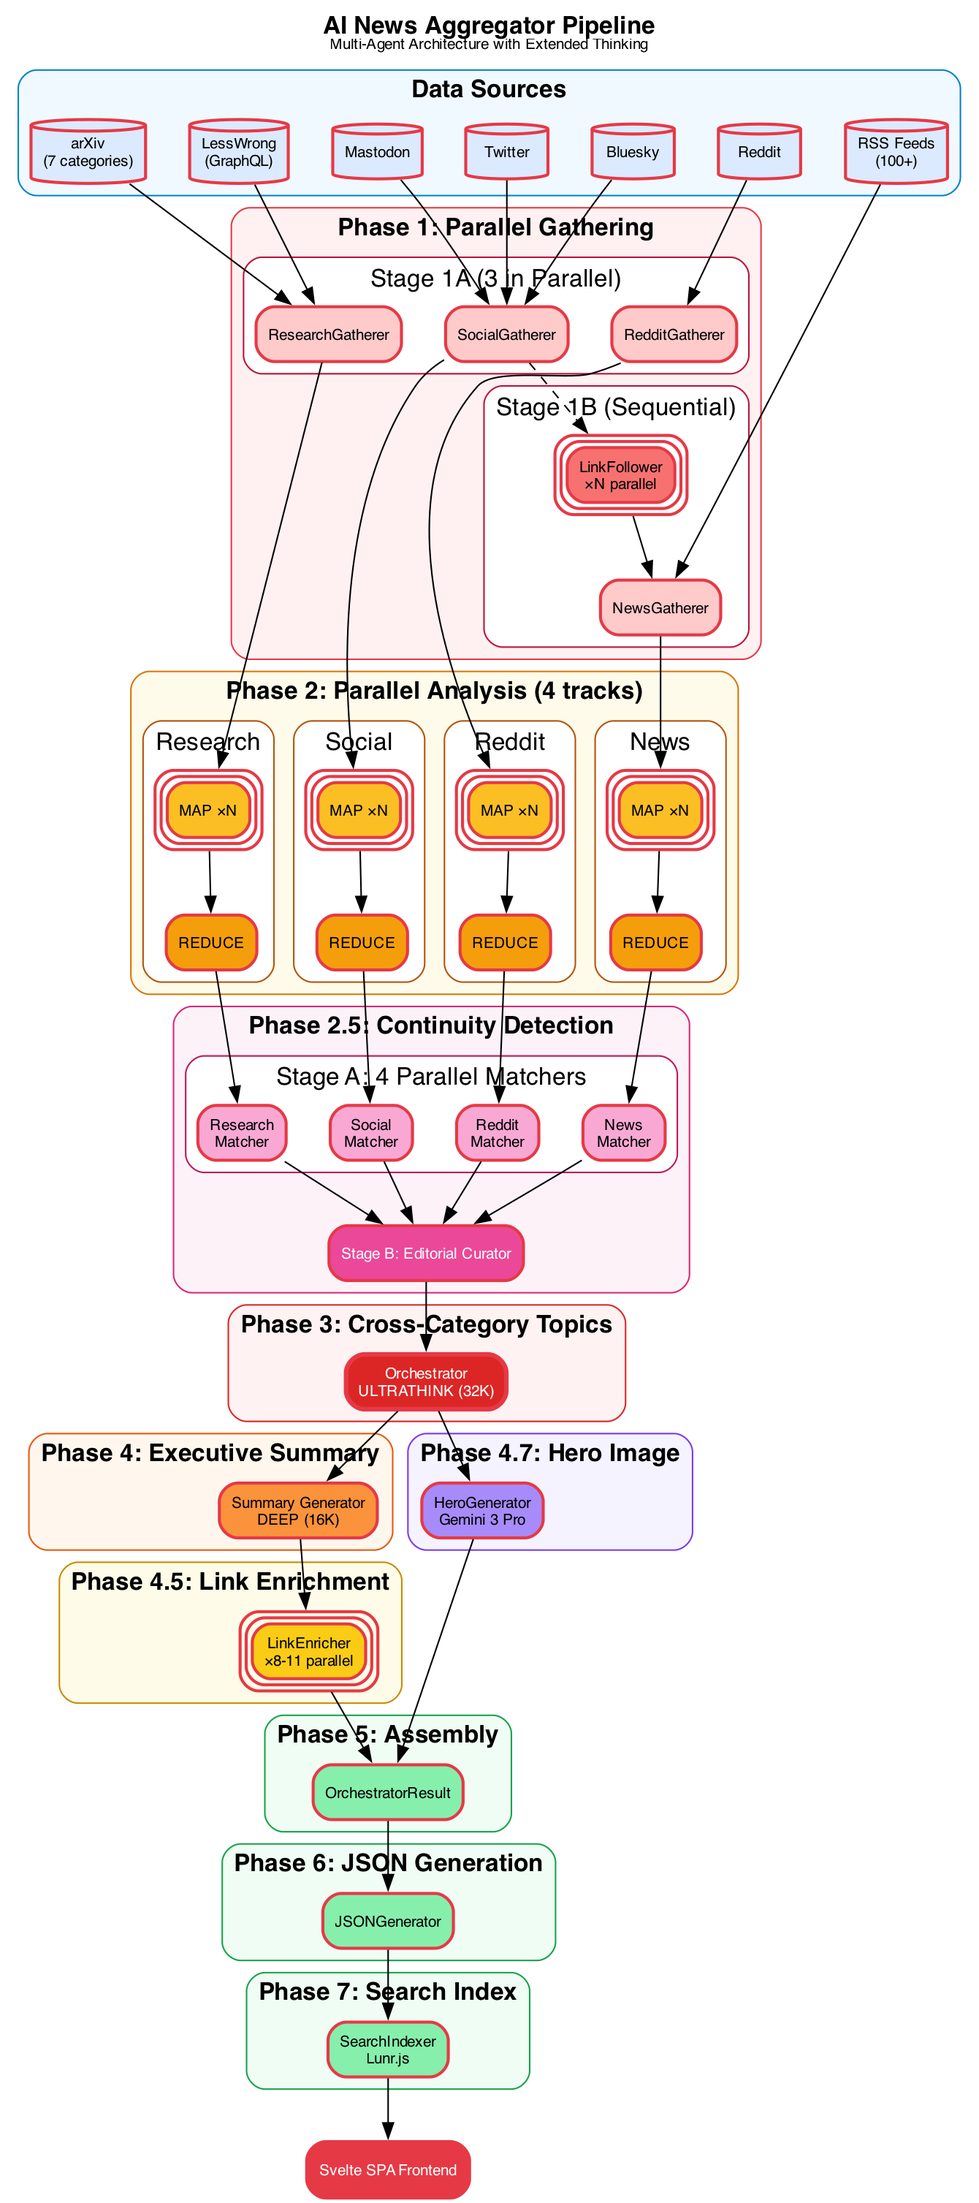
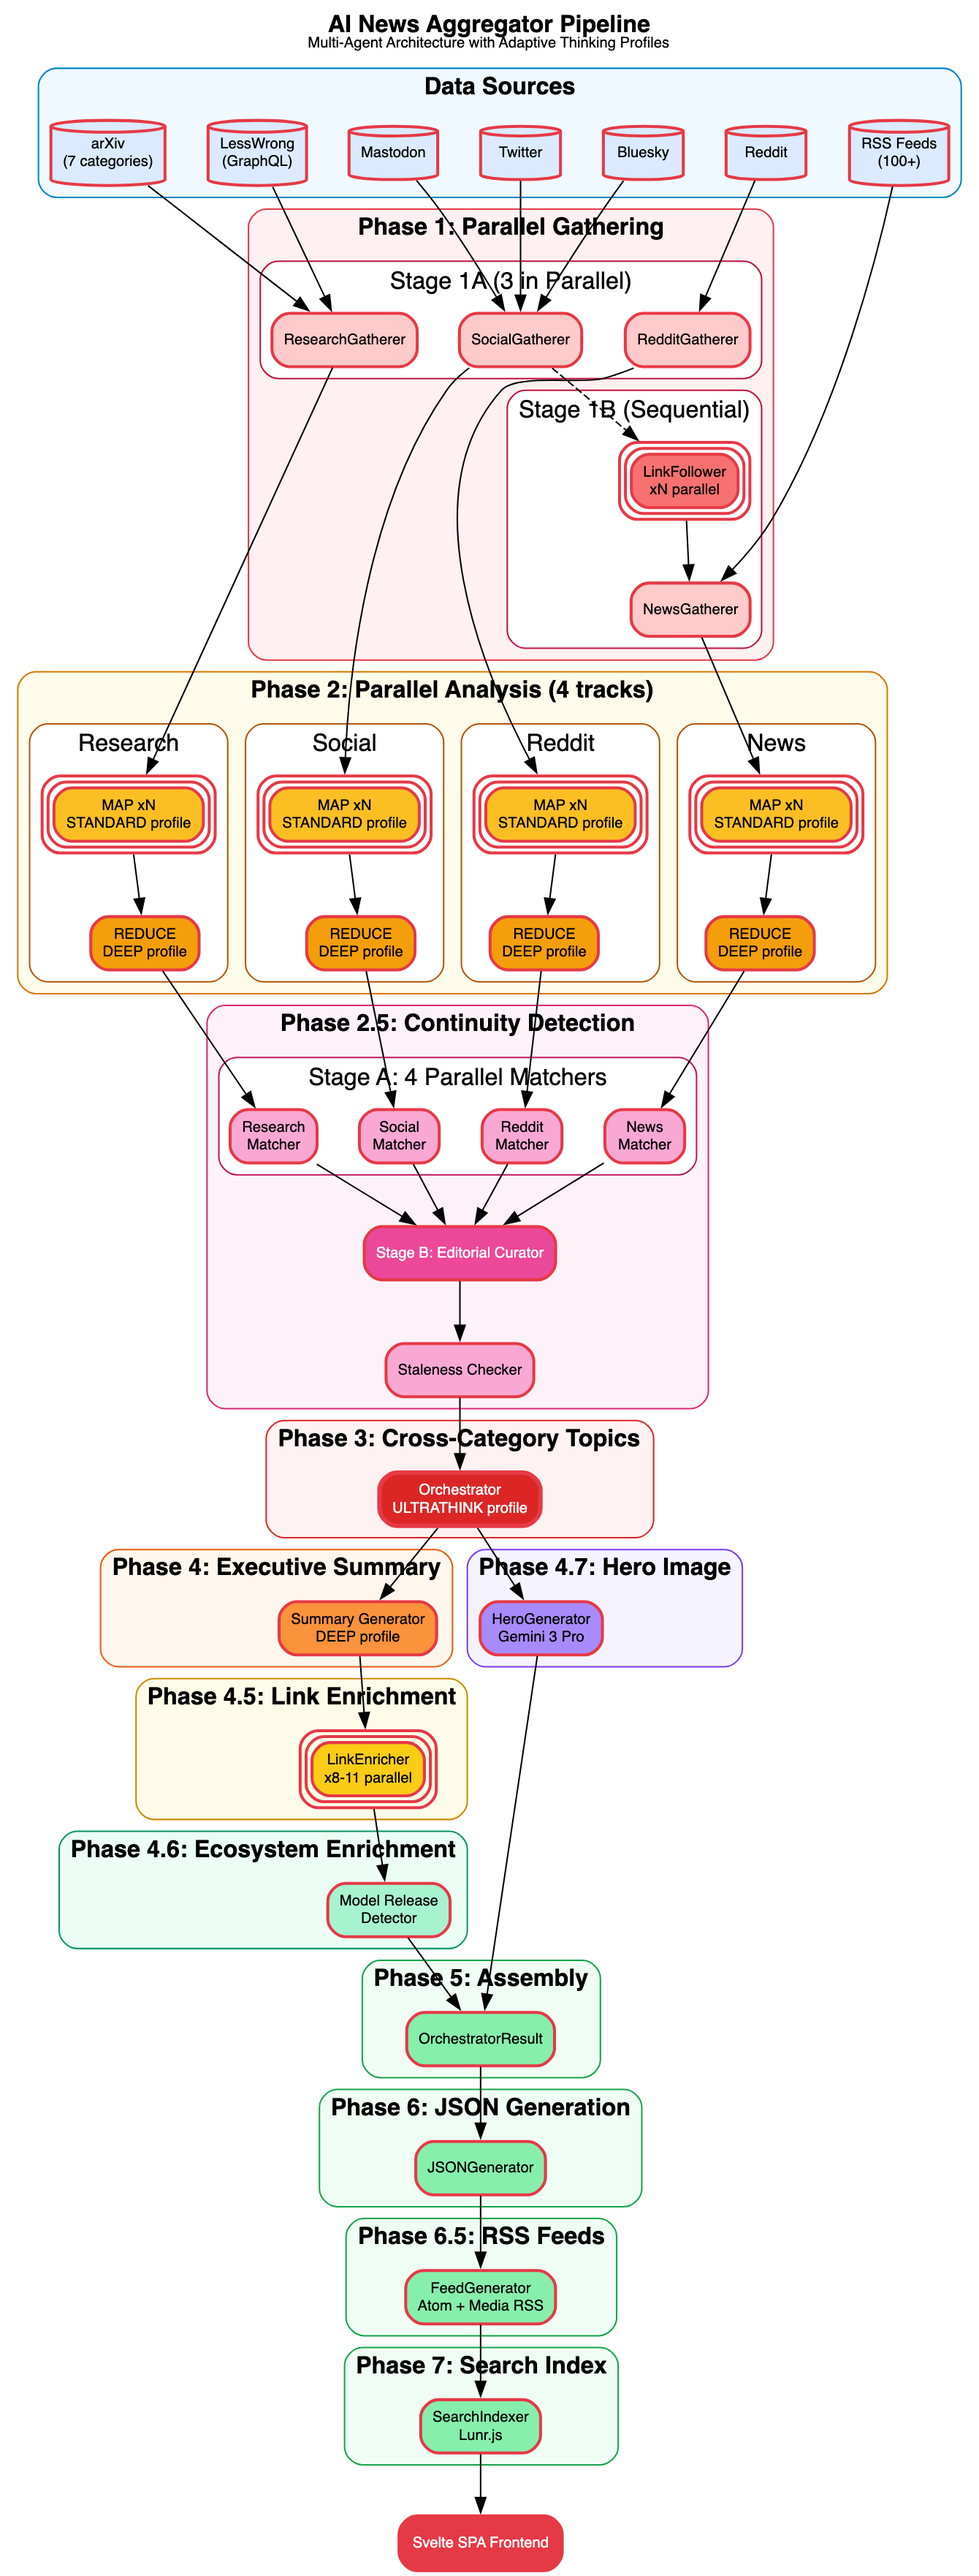
Update adaptive thinking docs and pipeline diagram

Changed region(s): [[0.0, 0.0, 0.9179, 1.0], [0.8567, 0.0312, 1.0, 0.1248]]

diff --git a/frontend/src/routes/about/+page.svelte b/frontend/src/routes/about/+page.svelte
@@ -58,7 +58,7 @@
 				</li>
 				<li>
 					<strong>Category Analysis</strong> - Four analyzers process each category using
-					extended thinking to identify key developments, assess importance, and generate summaries.
+					adaptive thinking profiles to identify key developments, assess importance, and generate summaries.
 				</li>
 				<li>
 					<strong>Cross-Category Topic Detection</strong> - The system identifies themes that
@@ -95,9 +95,9 @@
 						without human editorial review.
 					</p>
 					<p>
-						The pipeline uses <strong>extended thinking</strong> (up to 32,000 tokens of reasoning)
-						for complex analysis tasks like cross-category topic detection and executive summaries.
-						This helps the AI produce more thoughtful, well-reasoned content.
+						The pipeline uses Claude Opus 4.7 <strong>adaptive thinking</strong> for complex
+						analysis tasks like cross-category topic detection and executive summaries. On Opus 4.7,
+						this is guided by effort settings rather than fixed manual token budgets.
 					</p>
 					<p>
 						<strong>While we strive for accuracy, AI can and does make errors.</strong> These may include:

diff --git a/agents/llm_client.py b/agents/llm_client.py
@@ -1,9 +1,9 @@
 """
-Anthropic Client with Extended Thinking Support
+Anthropic Client with Adaptive/Manual Thinking Support
 
 This module provides a wrapper around the Anthropic SDK that:
 1. Uses Bearer token authentication (custom httpx transport)
-2. Supports extended thinking with configurable budget levels
+2. Supports Opus 4.7 adaptive thinking and legacy manual thinking budgets
 3. Returns structured responses including thinking blocks
 4. Automatically tracks token usage and costs
 """
@@ -30,7 +30,11 @@ logger = logging.getLogger(__name__)
 
 
 class ThinkingLevel(IntEnum):
-    """Budget levels for extended thinking."""
+    """Internal thinking profiles.
+
+    On Opus 4.7+, these legacy budget values are mapped to adaptive effort
+    levels. On older Claude models, they remain manual thinking budgets.
+    """
     QUICK = 4096       # Simple tasks (summarization)
     STANDARD = 8192    # Normal analysis
     DEEP = 16000       # Complex ranking
@@ -51,7 +55,7 @@ BUDGET_TO_EFFORT = {
 def _uses_adaptive_thinking(model: str) -> bool:
     """True if model requires adaptive thinking (Opus 4.7 and later).
 
-    Opus 4.7 removed manual extended thinking (`type: enabled` + budget_tokens)
+    Opus 4.7 removed manual thinking (`type: enabled` + budget_tokens)
     and sampling parameters. Opus 4.6 and earlier still accept manual thinking,
     so we keep the legacy path for them. Regex is permissive to handle the
     alias space: claude-opus-4-7, claude-4.7-opus, claude-opus-4-7-20260416,
@@ -102,7 +106,7 @@ class ApiKeyAuth(httpx.Auth):
 
 class AnthropicClient:
     """
-    Native Anthropic client with mode-based auth and extended thinking support.
+    Native Anthropic client with mode-based auth and adaptive/manual thinking support.
 
     This client wraps the Anthropic SDK to work with either:
     - Direct Anthropic API (x-api-key header authentication)
@@ -194,7 +198,7 @@ class AnthropicClient:
         temperature: float = 1.0
     ) -> LLMResponse:
         """
-        Make a standard API call without extended thinking.
+        Make a standard API call without thinking enabled.
 
         Args:
             messages: List of message dicts with 'role' and 'content'.
@@ -246,7 +250,7 @@ class AnthropicClient:
         temperature: float = 1.0
     ) -> LLMResponse:
         """
-        Make an API call with extended thinking enabled.
+        Make an API call with adaptive or manual thinking enabled.
 
         Args:
             messages: List of message dicts with 'role' and 'content'.
@@ -351,7 +355,7 @@ class AnthropicClient:
                 )
             else:
                 error_msg += (
-                    f"Check that the model '{self.model}' supports extended thinking "
+                    f"Check that the model '{self.model}' supports manual thinking "
                     f"and that the API endpoint is responding correctly."
                 )
             raise RuntimeError(error_msg)
@@ -596,7 +600,7 @@ class AsyncAnthropicClient:
                 )
             else:
                 error_msg += (
-                    f"Check that the model '{self.model}' supports extended thinking "
+                    f"Check that the model '{self.model}' supports manual thinking "
                     f"and that the API endpoint is responding correctly."
                 )
             raise RuntimeError(error_msg)

diff --git a/agents/config/migration.py b/agents/config/migration.py
@@ -120,12 +120,12 @@ llm:
   # anthropic (default):
   #   - Direct Anthropic API access
   #   - Uses x-api-key header authentication
-  #   - Full extended thinking support (QUICK/STANDARD/DEEP/ULTRATHINK)
+  #   - Adaptive thinking support (QUICK/STANDARD/DEEP/ULTRATHINK profiles)
   #
   # openai-compatible:
   #   - For LiteLLM, AWS Bedrock proxies, or other OpenAI-compatible endpoints
   #   - Uses Bearer token authentication
-  #   - Extended thinking will log warnings (proxy may not support it)
+  #   - Thinking support depends on proxy passthrough support
   #
   mode: "{llm_mode}"
 

diff --git a/run_pipeline.py b/run_pipeline.py
@@ -4,7 +4,7 @@ AI News Aggregation Pipeline - Multi-Agent Architecture
 
 Main entry point that orchestrates the multi-agent pipeline:
 1. Parallel Gathering (4 gatherers: news, papers, social, reddit)
-2. Parallel Analysis (4 analyzers with extended thinking)
+2. Parallel Analysis (4 analyzers with adaptive/manual thinking profiles)
 3. Cross-Category Topic Detection (ULTRATHINK)
 4. Executive Summary Generation
 5. Deduplication & QC

diff --git a/README.md b/README.md
@@ -10,7 +10,7 @@
 [![Python](https://img.shields.io/badge/Python-3.10+-green.svg)](https://www.python.org/)
 [![Docker](https://img.shields.io/badge/Docker-Ready-blue.svg)](https://www.docker.com/)
 
-Daily AI/ML news briefings curated by specialized agents with extended thinking. The publishing repository runs the hosted pipeline every morning at 3 AM ET.
+Daily AI/ML news briefings curated by specialized agents using adaptive thinking profiles. The publishing repository runs the hosted pipeline every morning at 3 AM ET.
 
 ---
 
@@ -19,7 +19,7 @@ Daily AI/ML news briefings curated by specialized agents with extended thinking.
 | Section | Description |
 |---------|-------------|
 | [What It Does](#what-it-does) | Key stats and capabilities |
-| [How It Works](#how-it-works) | Pipeline phases, thinking levels, architecture |
+| [How It Works](#how-it-works) | Pipeline phases, reasoning profiles, architecture |
 | [Quick Start](#quick-start) | Docker and local setup |
 | [Configuration](#configuration) | Provider modes, prompts, data sources |
 | [Daily Automation](#daily-automation) | GitHub Actions publication workflow |
@@ -34,13 +34,13 @@ Daily AI/ML news briefings curated by specialized agents with extended thinking.
 
 ## What It Does
 
-A Python-based pipeline that collects AI/ML news from multiple sources, analyzes them using specialized agents with Claude's extended thinking, and serves a modern Svelte SPA frontend.
+A Python-based pipeline that collects AI/ML news from multiple sources, analyzes them using specialized agents with Claude's adaptive thinking, and serves a modern Svelte SPA frontend.
 
 **Key Stats:**
 - **100+ RSS feeds** from AI news sites, blogs, and research organizations
 - **7 arXiv categories** (cs.AI, cs.LG, cs.CL, cs.CV, cs.NE, cs.RO, stat.ML)
 - **6 social platforms** (Twitter, Bluesky, Mastodon, Reddit, LessWrong, research blogs)
-- **~80-85K thinking tokens** per daily run
+- **Adaptive reasoning profiles** for lightweight triage through cross-category synthesis
 - **Daily hero image** generated with AATF skunk mascot
 
 ---
@@ -51,27 +51,29 @@ A Python-based pipeline that collects AI/ML news from multiple sources, analyzes
 
 ### The Multi-Phase Pipeline
 
-| Phase | Description | Thinking Level |
+| Phase | Description | Reasoning Profile |
 |-------|-------------|----------------|
 | **0. Ecosystem Context** | Load AI model release dates for LLM grounding | - |
 | **1. Parallel Gathering** | 4 gatherers collect from RSS, arXiv, Twitter, Reddit, Bluesky, Mastodon | - |
-| **2. Parallel Analysis** | MAP-REDUCE pattern: batch items (75 each), analyze, then synthesize | STANDARD (8K) → DEEP (16K) |
+| **2. Parallel Analysis** | MAP-REDUCE pattern: batch items (75 each), analyze, then synthesize | STANDARD -> DEEP |
 | **2.5. Continuity Detection** | Track developing stories, detect rehashes, link related coverage | - |
-| **3. Cross-Category Topics** | Identify 3-6 themes spanning all categories | ULTRATHINK (32K) |
-| **4. Executive Summary** | Generate daily briefing (500-800 words) | DEEP (16K) |
-| **4.5. Link Enrichment** | Inject internal links to referenced items | STANDARD (8K) |
-| **4.6. Ecosystem Enrichment** | Auto-detect new model releases from news | STANDARD (8K) |
+| **3. Cross-Category Topics** | Identify 3-6 themes spanning all categories | ULTRATHINK |
+| **4. Executive Summary** | Generate daily briefing (500-800 words) | DEEP |
+| **4.5. Link Enrichment** | Inject internal links to referenced items | STANDARD |
+| **4.6. Ecosystem Enrichment** | Auto-detect new model releases from news | STANDARD |
 | **4.7. Hero Image** | Generate branded banner with Gemini 3 Pro | - |
 | **5-7. Output** | JSON data generation + RSS feeds + Lunr.js search index | - |
 
-### Extended Thinking Levels
+### Adaptive Thinking Profiles
 
-| Level | Budget | Use Case |
-|-------|--------|----------|
-| QUICK | 4,096 tokens | Link relevance decisions |
-| STANDARD | 8,192 tokens | Batch analysis, link enrichment |
-| DEEP | 16,000 tokens | Category ranking, executive summary |
-| ULTRATHINK | 32,000 tokens | Cross-category topic detection |
+For Claude Opus 4.7, these are profiles rather than fixed token budgets. The client sends `thinking: { type: "adaptive", display: "summarized" }` and maps each profile to `output_config.effort`. Manual `budget_tokens` is only used for older Claude models that still support it.
+
+| Profile | Opus 4.7 Effort | Legacy Manual Budget | Use Case |
+|---------|-----------------|----------------------|----------|
+| QUICK | `high` | 4,096 tokens | Link relevance decisions, item summarization |
+| STANDARD | `xhigh` | 8,192 tokens | Batch analysis, link enrichment |
+| DEEP | `max` | 16,000 tokens | Category ranking, executive summary |
+| ULTRATHINK | `max` | 32,000 tokens | Cross-category topic detection |
 
 ### Agent Architecture
 
@@ -270,10 +272,10 @@ cp config/providers.yaml.example config/providers.yaml
 
 Supports two modes:
 
-| Mode | Description | Auth | Extended Thinking |
-|------|-------------|------|-------------------|
-| `anthropic` (default) | Direct Anthropic API | x-api-key header | Full support |
-| `openai-compatible` | LiteLLM, vLLM, or other proxies | Bearer token | May not be supported |
+| Mode | Description | Auth | Thinking Support |
+|------|-------------|------|------------------|
+| `anthropic` (default) | Direct Anthropic API | x-api-key header | Adaptive thinking on Opus 4.7 |
+| `openai-compatible` | LiteLLM, vLLM, or other proxies | Bearer token | Depends on proxy passthrough support |
 
 **Direct Anthropic API:**
 
@@ -415,9 +417,10 @@ Automatically identifies when today's stories continue from previous coverage:
 - **Smart ranking**: Items flagged as `rehash` can be demoted from top stories
 - **2-day lookback**: Compares against items from the past 2 days
 
-### Extended Thinking
-- Configurable thinking budgets from 4K to 32K tokens
-- ULTRATHINK mode for complex cross-category analysis
+### Adaptive Thinking Profiles
+- Claude Opus 4.7 uses adaptive thinking plus effort settings, not fixed manual `budget_tokens`
+- QUICK/STANDARD/DEEP/ULTRATHINK remain as internal profile names for callers, logs, and older Claude models
+- ULTRATHINK profile for complex cross-category analysis
 - **Cost tracking**: Per-phase breakdown with input/output/cache token tracking, logged at end of each run
 
 ### Ecosystem Grounding
@@ -475,7 +478,7 @@ Multiple Atom 1.0 feeds for different use cases:
 ```
 ai-news-aggregator/
 ├── agents/
-│   ├── llm_client.py          # Anthropic client with extended thinking
+│   ├── llm_client.py          # Anthropic client with adaptive/manual thinking profiles
 │   ├── base.py                # BaseGatherer, BaseAnalyzer classes
 │   ├── orchestrator.py        # Main coordinator
 │   ├── ecosystem_context.py   # AI model release dates for LLM grounding

diff --git a/AGENTS.md b/AGENTS.md
@@ -4,7 +4,7 @@ This file provides guidance to Codex (Codex.ai/code) when working with code in t
 
 ## Project Overview
 
-AI News Aggregator - A Python-based multi-agent pipeline that collects AI/ML news from multiple sources (RSS feeds, arXiv API, Twitter, Reddit, Bluesky, Mastodon), analyzes them using Codex Opus 4.7 with adaptive thinking, and serves a modern Svelte SPA frontend with AATF branding.
+AI News Aggregator - A Python-based multi-agent pipeline that collects AI/ML news from multiple sources (RSS feeds, arXiv API, Twitter, Reddit, Bluesky, Mastodon), analyzes them using Claude Opus 4.7 with adaptive thinking, and serves a modern Svelte SPA frontend with AATF branding.
 
 **Testing:** The user always runs tests themselves. Do not run the pipeline or tests unless explicitly asked.
 
@@ -116,7 +116,7 @@ Phase 7: Search Index Update (Lunr.js compatible)
 ```
 agents/
 ├── __init__.py
-├── llm_client.py              # Anthropic client with extended thinking
+├── llm_client.py              # Anthropic client with adaptive/manual thinking profiles
 ├── base.py                    # Base classes (BaseGatherer, BaseAnalyzer)
 ├── orchestrator.py            # Main coordinator
 ├── link_enricher.py           # Adds internal links to summaries
@@ -164,7 +164,7 @@ frontend/                       # Svelte SPA frontend
 ### Key Files
 - `run_pipeline.py` - Async entry point using MainOrchestrator
 - `agents/orchestrator.py` - Main coordinator for all agents
-- `agents/llm_client.py` - Anthropic SDK with extended thinking
+- `agents/llm_client.py` - Anthropic SDK with adaptive/manual thinking profiles
 - `agents/link_enricher.py` - Adds internal links to summaries using LLM
 - `agents/cost_tracker.py` - Tracks LLM API usage and costs
 - `agents/ecosystem_context.py` - Model release tracking for LLM grounding
@@ -181,7 +181,7 @@ frontend/                       # Svelte SPA frontend
 - `web/data/` - Generated JSON data for frontend
 
 ### External Dependencies
-- **Anthropic SDK** - Direct Codex API with extended thinking (Bearer auth)
+- **Anthropic SDK** - Direct Claude API with adaptive thinking support (Bearer auth)
 - **TwitterAPI.io** - Twitter/X data collection ($0.15/1000 tweets)
 - **Reddit JSON** - Free Reddit endpoint (add .json to Reddit URLs)
 - **Bluesky Public API** - Free, no auth required
@@ -209,20 +209,20 @@ LOOKBACK_HOURS        # Data window in hours (default: 24)
 TZ                    # Timezone (default: America/New_York)
 ```
 
-## Extended Thinking
+## Adaptive Thinking Profiles
 
-The pipeline uses Codex's extended thinking feature with budget levels:
+The pipeline uses Claude Opus 4.7 adaptive thinking profiles. For Opus 4.7, the legacy budget labels map to `output_config.effort`; `budget_tokens` is only used for older Claude models that still support manual thinking.
 
-| Component | Thinking Level | Budget Tokens |
-|-----------|---------------|---------------|
-| Link relevance check | QUICK | 4,096 |
-| Item summarization | QUICK | 4,096 |
-| Category theme detection | STANDARD | 8,192 |
-| Item ranking | DEEP | 16,000 |
-| Cross-category topics | ULTRATHINK | 32,000 |
-| Executive summary | DEEP | 16,000 |
-| Link enrichment | STANDARD | 8,192 |
-| Ecosystem enrichment | STANDARD | 8,192 |
+| Component | Profile | Opus 4.7 Effort |
+|-----------|---------|-----------------|
+| Link relevance check | QUICK | high |
+| Item summarization | QUICK | high |
+| Category theme detection | STANDARD | xhigh |
+| Item ranking | DEEP | max |
+| Cross-category topics | ULTRATHINK | max |
+| Executive summary | DEEP | max |
+| Link enrichment | STANDARD | xhigh |
+| Ecosystem enrichment | STANDARD | xhigh |
 
 ## Ecosystem Context
 

diff --git a/CLAUDE.md b/CLAUDE.md
@@ -116,7 +116,7 @@ Phase 7: Search Index Update (Lunr.js compatible)
 ```
 agents/
 ├── __init__.py
-├── llm_client.py              # Anthropic client with extended thinking
+├── llm_client.py              # Anthropic client with adaptive/manual thinking profiles
 ├── base.py                    # Base classes (BaseGatherer, BaseAnalyzer)
 ├── orchestrator.py            # Main coordinator
 ├── link_enricher.py           # Adds internal links to summaries
@@ -164,7 +164,7 @@ frontend/                       # Svelte SPA frontend
 ### Key Files
 - `run_pipeline.py` - Async entry point using MainOrchestrator
 - `agents/orchestrator.py` - Main coordinator for all agents
-- `agents/llm_client.py` - Anthropic SDK with extended thinking
+- `agents/llm_client.py` - Anthropic SDK with adaptive/manual thinking profiles
 - `agents/link_enricher.py` - Adds internal links to summaries using LLM
 - `agents/cost_tracker.py` - Tracks LLM API usage and costs
 - `agents/ecosystem_context.py` - Model release tracking for LLM grounding
@@ -181,7 +181,7 @@ frontend/                       # Svelte SPA frontend
 - `web/data/` - Generated JSON data for frontend
 
 ### External Dependencies
-- **Anthropic SDK** - Direct Claude API with extended thinking (Bearer auth)
+- **Anthropic SDK** - Direct Claude API with adaptive thinking support (Bearer auth)
 - **TwitterAPI.io** - Twitter/X data collection ($0.15/1000 tweets)
 - **Reddit JSON** - Free Reddit endpoint (add .json to Reddit URLs)
 - **Bluesky Public API** - Free, no auth required
@@ -209,20 +209,20 @@ LOOKBACK_HOURS        # Data window in hours (default: 24)
 TZ                    # Timezone (default: America/New_York)
 ```
 
-## Extended Thinking
+## Adaptive Thinking Profiles
 
-The pipeline uses Claude's extended thinking feature with budget levels:
+The pipeline uses Claude Opus 4.7 adaptive thinking profiles. For Opus 4.7, the legacy budget labels map to `output_config.effort`; `budget_tokens` is only used for older Claude models that still support manual thinking.
 
-| Component | Thinking Level | Budget Tokens |
-|-----------|---------------|---------------|
-| Link relevance check | QUICK | 4,096 |
-| Item summarization | QUICK | 4,096 |
-| Category theme detection | STANDARD | 8,192 |
-| Item ranking | DEEP | 16,000 |
-| Cross-category topics | ULTRATHINK | 32,000 |
-| Executive summary | DEEP | 16,000 |
-| Link enrichment | STANDARD | 8,192 |
-| Ecosystem enrichment | STANDARD | 8,192 |
+| Component | Profile | Opus 4.7 Effort |
+|-----------|---------|-----------------|
+| Link relevance check | QUICK | high |
+| Item summarization | QUICK | high |
+| Category theme detection | STANDARD | xhigh |
+| Item ranking | DEEP | max |
+| Cross-category topics | ULTRATHINK | max |
+| Executive summary | DEEP | max |
+| Link enrichment | STANDARD | xhigh |
+| Ecosystem enrichment | STANDARD | xhigh |
 
 ## Ecosystem Context
 
